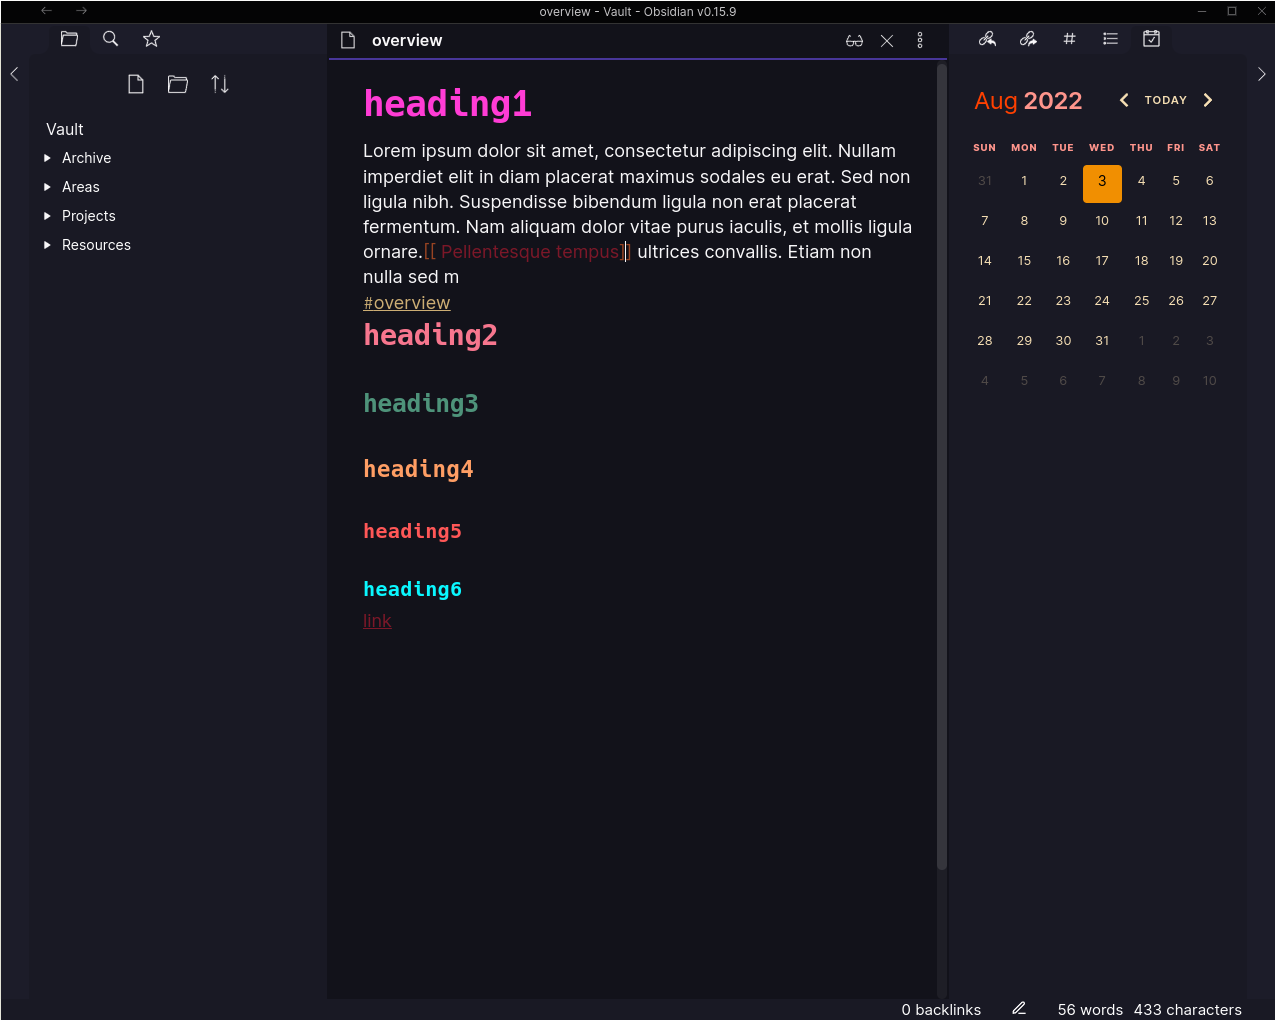
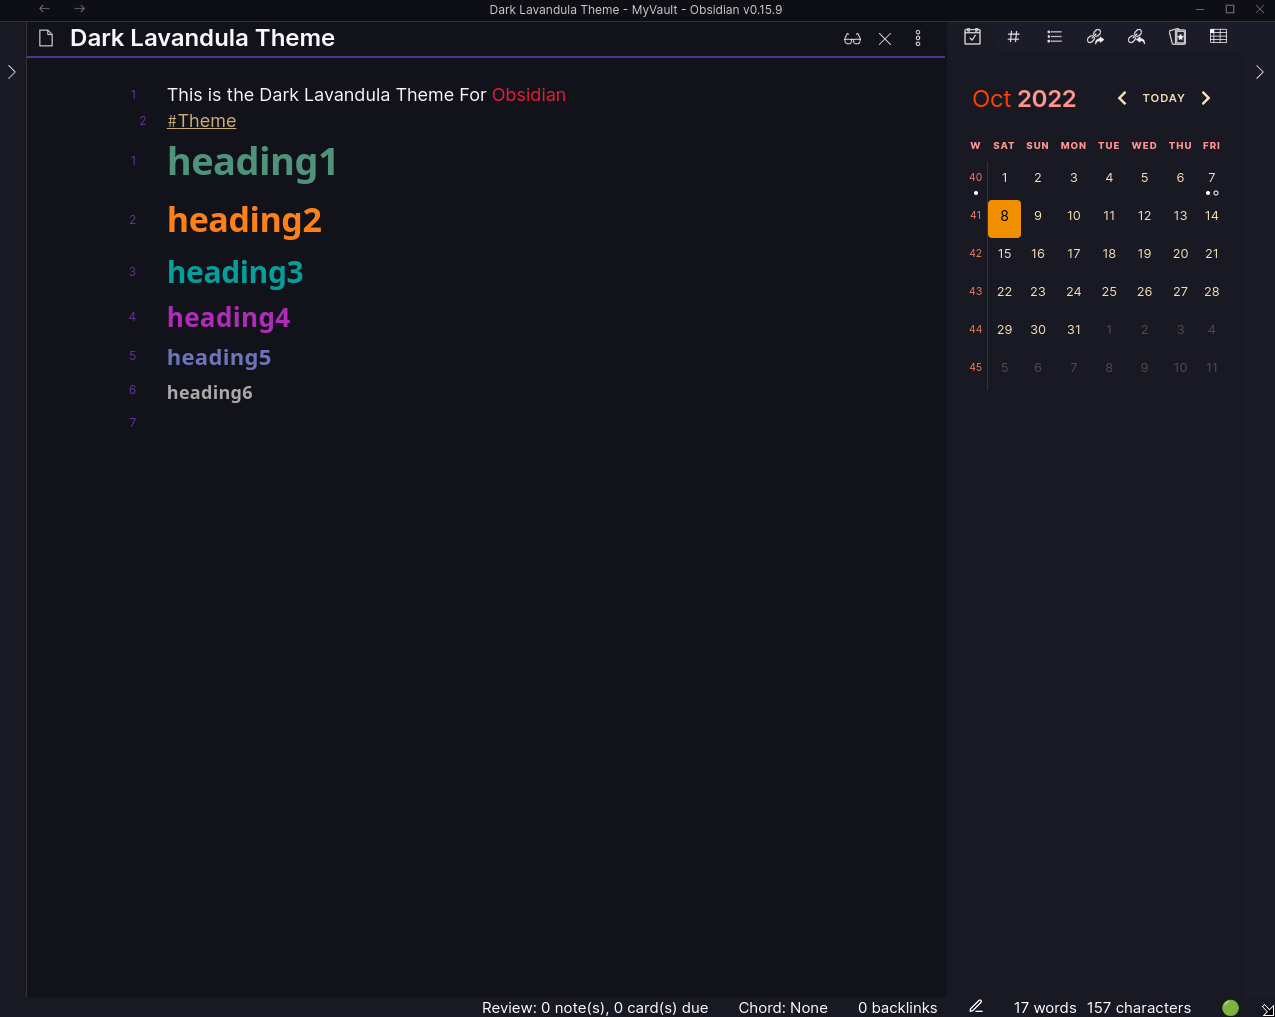
.

diff --git a/obsidian.css b/obsidian.css
@@ -1,50 +1,68 @@
+/*===============================================================================
+ ____             _        _                               _       _  
+|  _ \  __ _ _ __| | __   | |    __ ___   ____ _ _ __   __| |_   _| | __ _ 
+| | | |/ _` | '__| |/ /   | |   / _` \ \ / / _` | '_ \ / _` | | | | |/ _` |
+| |_| | (_| | |  |   <    | |__| (_| |\ V / (_| | | | | (_| | |_| | | (_| |
+|____/ \__,_|_|  |_|\_\   |_____\__,_| \_/ \__,_|_| |_|\__,_|\__,_|_|\__,_|
+ _____ _                           
+|_   _| |__   ___ _ __ ___   ___ 
+  | | | '_ \ / _ \ '_ ` _ \ / _ \
+  | | | | | |  __/ | | | | |  __/
+  |_| |_| |_|\___|_| |_| |_|\___|
+
+================================================================================= */
+
+/** ----- TABLE OF CONTENTS ----- */
+
 .theme-dark {
   /* Colors: */
+  --background-modifier-cover: rgba(0, 0, 0, 0.2); /*Obsidian Title Bar Bg*/
   --background-primary: #12121a;
   --background-primary-alt: #12121a;
   --background-secondary: #191924;
   --background-secondary-alt: #1c1c29;
 
+  --text-title-h1: #4e937a;
+  --text-title-h2: #fe8019;
+  --text-title-h3: #049f9a;
+  --text-title-h4: #df34e7c4;
+  --text-title-h5: #6c75bb;
+  --text-title-h6: #a9a9a9;
+
   --text-accent: #e71d36;
   --text-accent-hover: #d62e73;
-  --scrollbar-thumb-bg: rgb(255 255 255 / 10%);
-  --scrollbar-active-thumb-bg: rgb(163 150 195 / 25%);
   --text-selection: rgb(21 50 54 / 98%);
   --text-on-accent: #f8f7f9;
+  --text-normal: #f8f7f9;
+  --text-muted: #fff;
+  --text-faint: rebeccapurple;
+  --border-color: purple;
+
+  --scrollbar-thumb-bg: rgb(255 255 255 / 10%);
+  --scrollbar-active-thumb-bg: rgb(163 150 195 / 25%);
 
   --background-blockquote: #41d3bd;
   --blockquote-color: #1e202f;
   --blockquote-size: 18px;
   --blockquote-font-family: "Hack";
-
-  --text-title-h1: #ff3cd5;
-  --text-title-h2: #f7768e;
-  --text-title-h3: #4e937a;
-  --text-title-h4: #ff9e64;
-  --text-title-h5: #ff5757;
-  --text-title-h6: #0af7ff;
-  /* --text-normal: wheat; */
-  --text-normal: #f8f7f9;
-  --text-muted: white;
-  --text-faint: rebeccapurple;
-
   --blockquote-border: #ffb86c;
 
   --font-weight-title: 600;
   --font-monospace: "Consolas", "Fira Code", "Source Code Pro",
     "Droid Sans Mono", "Monoid", "Arial", sans-serif;
   --line-height-headers: 1.4;
-  --font-family-preview: "Hack", sans-serif;
-  --font-family-editor: "Hack", sans-serif;
+  --font-family-preview: serif;
+  --font-family-editor: sans-serif;
 
   --font-size-normal: 18px;
   --font-size-status-bar: 15px;
-  --font-size-h1: 30px;
-  --font-size-h2: 25px;
-  --font-size-h3: 21px;
-  --font-size-h4: 20px;
-  --font-size-h5: 19px;
+  --font-size-h1: 38px;
+  --font-size-h2: 34px;
+  --font-size-h3: 30px;
+  --font-size-h4: 26px;
+  --font-size-h5: 22px;
   --font-size-h6: 18px;
+  --line-height: 26px;
 }
 
 .markdown-source-view {
@@ -53,6 +71,21 @@
 .markdown-preview-view {
   font-size: var(--font-size-normal);
 }
+.cm-line {
+  line-height: var(--line-height);
+}
+
+/* Graph */
+.graph-view.color-circle,
+.graph-view.color-fill-highlight,
+.graph-view.color-line-highlight {
+  /* color: var(--text-title-h5) !important; */
+  color: #33184e !important;
+}
+.graph-view.color-text {
+  color: #b52a2a !important;
+}
+
 /* headings preview-view */
 .markdown-preview-view h1 {
   font-size: var(--font-size-h1);
@@ -76,6 +109,7 @@
   font-weight: var(--font-weight-title);
   color: var(--text-title-h3);
   line-height: var(--line-height-headers);
+  border-radius: 10px;
 }
 
 .markdown-preview-view h4 {
@@ -84,6 +118,7 @@
   font-weight: var(--font-weight-title);
   color: var(--text-title-h4);
   line-height: var(--line-height-headers);
+  border-radius: 10px;
 }
 
 .markdown-preview-view h5 {
@@ -92,6 +127,7 @@
   font-weight: var(--font-weight-title);
   color: var(--text-title-h5);
   line-height: var(--line-height-headers);
+  border-radius: 10px;
 }
 
 .markdown-preview-view h6 {
@@ -100,61 +136,65 @@
   font-weight: var(--font-weight-title);
   color: var(--text-title-h6);
   line-height: var(--line-height-headers);
+  border-radius: 10px;
 }
 
 /* headings-editor */
-.cm-header-1 {
-  font-size: var(--font-size-h1);
+/* .HyperMD-header .cm-header-1, */
+/* .HyperMD-header .cm-header-2, */
+/* .HyperMD-header .cm-header-3, */
+/* .HyperMD-header .cm-header-4, */
+/* .HyperMD-header .cm-header-5, */
+/* .HyperMD-header .cm-header-6 { */
+/*   font-size: unset !important; */
+/* } */
+.HyperMD-header {
   font-family: var(--font-family-editor);
   font-weight: var(--font-weight-title) !important;
+  line-height: var(--line-height-headers);
+  /* border-bottom: 2px solid #fff; */
+  /* border-image: linear-gradient(to right, purple, var(--background-primary) 30%) */
+  /*   10; */
+}
+.HyperMD-header .cm-header-1 {
+  font-size: var(--font-size-h1) !important;
   color: var(--text-title-h1);
-  line-height: var(--line-height-headers);
 }
-
-.cm-header-2 {
-  font-size: var(--font-size-h2);
-  font-family: var(--font-family-editor);
-  font-weight: var(--font-weight-title) !important;
+.HyperMD-header .cm-header-2 {
+  font-size: var(--font-size-h2) !important;
   color: var(--text-title-h2);
-  line-height: var(--line-height-headers);
 }
 
-.cm-header-3 {
-  font-size: var(--font-size-h3);
-  font-family: var(--font-family-editor);
-  font-weight: var(--font-weight-title) !important;
+.HyperMD-header .cm-header-3 {
+  font-size: var(--font-size-h3) !important;
   color: var(--text-title-h3);
-  line-height: var(--line-height-headers);
 }
 
-.cm-header-4 {
-  font-size: var(--font-size-h4);
-  font-family: var(--font-family-editor);
-  font-weight: var(--font-weight-title) !important;
+.HyperMD-header .cm-header-4 {
+  font-size: var(--font-size-h4) !important ;
   color: var(--text-title-h4);
-  line-height: var(--line-height-headers);
 }
 
-.cm-header-5 {
-  font-size: var(--font-size-h5);
-  font-family: var(--font-family-editor);
-  font-weight: var(--font-weight-title) !important;
+.HyperMD-header .cm-header-5 {
+  font-size: var(--font-size-h5) !important;
   color: var(--text-title-h5);
-  line-height: var(--line-height-headers);
 }
 
-.cm-header-6 {
-  font-size: var(--font-size-h6);
-  font-family: var(--font-family-editor);
-  font-weight: var(--font-weight-title) !important;
+.HyperMD-header .cm-header-6 {
+  font-size: var(--font-size-h6) !important;
   color: var(--text-title-h6);
-  line-height: var(--line-height-headers);
 }
 
 /* links */
 .cm-formatting-link-start,
 .cm-formatting-link-end {
   color: #984322 !important;
+}
+.markdown-source-view.mod-cm6 .cm-underline {
+  text-decoration: none;
+}
+.markdown-rendered .internal-link {
+  text-decoration: none;
 }
 
 /* tags */
@@ -218,6 +258,73 @@ svg {
 .workspace-ribbon:hover .side-dock-ribbon-action {
   opacity: 1;
 }
+
+/** .... 2.12 Horizontal Rule Formatting */
+/** ...... 2.12.1 Aesthetic Horizontal Rule -- https://github.com/TriDiamond/Obsidian-Obsidianite */
+.markdown-preview-view hr {
+  border: none;
+  height: 1px;
+  background-image: linear-gradient(
+    to right,
+    var(--background-primary),
+    var(--text-accent),
+    var(--background-primary)
+  );
+}
+.markdown-preview-view hr::after {
+  /* content: '§'; */
+  content: "🐈";
+  display: inline-block;
+  position: absolute;
+  left: 50%;
+  transform: translate(-50%, -50%) rotate(0deg);
+  transform-origin: 50% 50%;
+  padding: 0.5rem;
+  background-color: var(--background-primary);
+}
+.markdown-source-view hr {
+  margin-block-start: 4em;
+  margin-block-end: 4em;
+  border: none;
+  height: 1px;
+  background-image: linear-gradient(
+    to right,
+    var(--background-primary),
+    var(--text-accent),
+    var(--background-primary)
+  );
+}
+.markdown-source-view hr::after {
+  /* content: '§'; */
+  content: "🐈";
+  display: inline-block;
+  position: absolute;
+  left: 50%;
+  transform: translate(-50%, -50%) rotate(0deg);
+  transform-origin: 50% 50%;
+  padding: 0.5rem;
+  color: var(--bright-aqua);
+  background-color: var(--background-primary);
+}
+
+/* images */
+img {
+  display: block;
+  margin-left: auto;
+  margin-right: auto;
+}
+
+/* highlights */
+.cm-s-obsidian span.cm-formatting-highlight,
+.cm-s-obsidian span.cm-highlight {
+  color: #d1fffd;
+  background-color: rgb(120 0 38);
+}
+.markdown-rendered mark {
+  color: #d1fffd;
+  background-color: rgb(120 0 38);
+}
+
 /* Calendar plugin  */
 
 /* title */
@@ -251,3 +358,22 @@ svg {
 #calendar-container .nav .right-nav .reset-button {
   color: wheat !important;
 }
+.theme-dark,
+.theme-light {
+  --jump-to-link-lightspeed-color: var(--text-muted);
+}
+
+/* For the Jump To Link plugin */
+.jl.popover {
+  background: var(--background-primary) !important;
+  border-style: none !important;
+}
+.jl.popover span {
+  color: purple;
+  font-style: italic;
+  font-size: 13px;
+
+}
+/* * { */
+/*     unicode-bidi: plaintext; */
+/* } */
